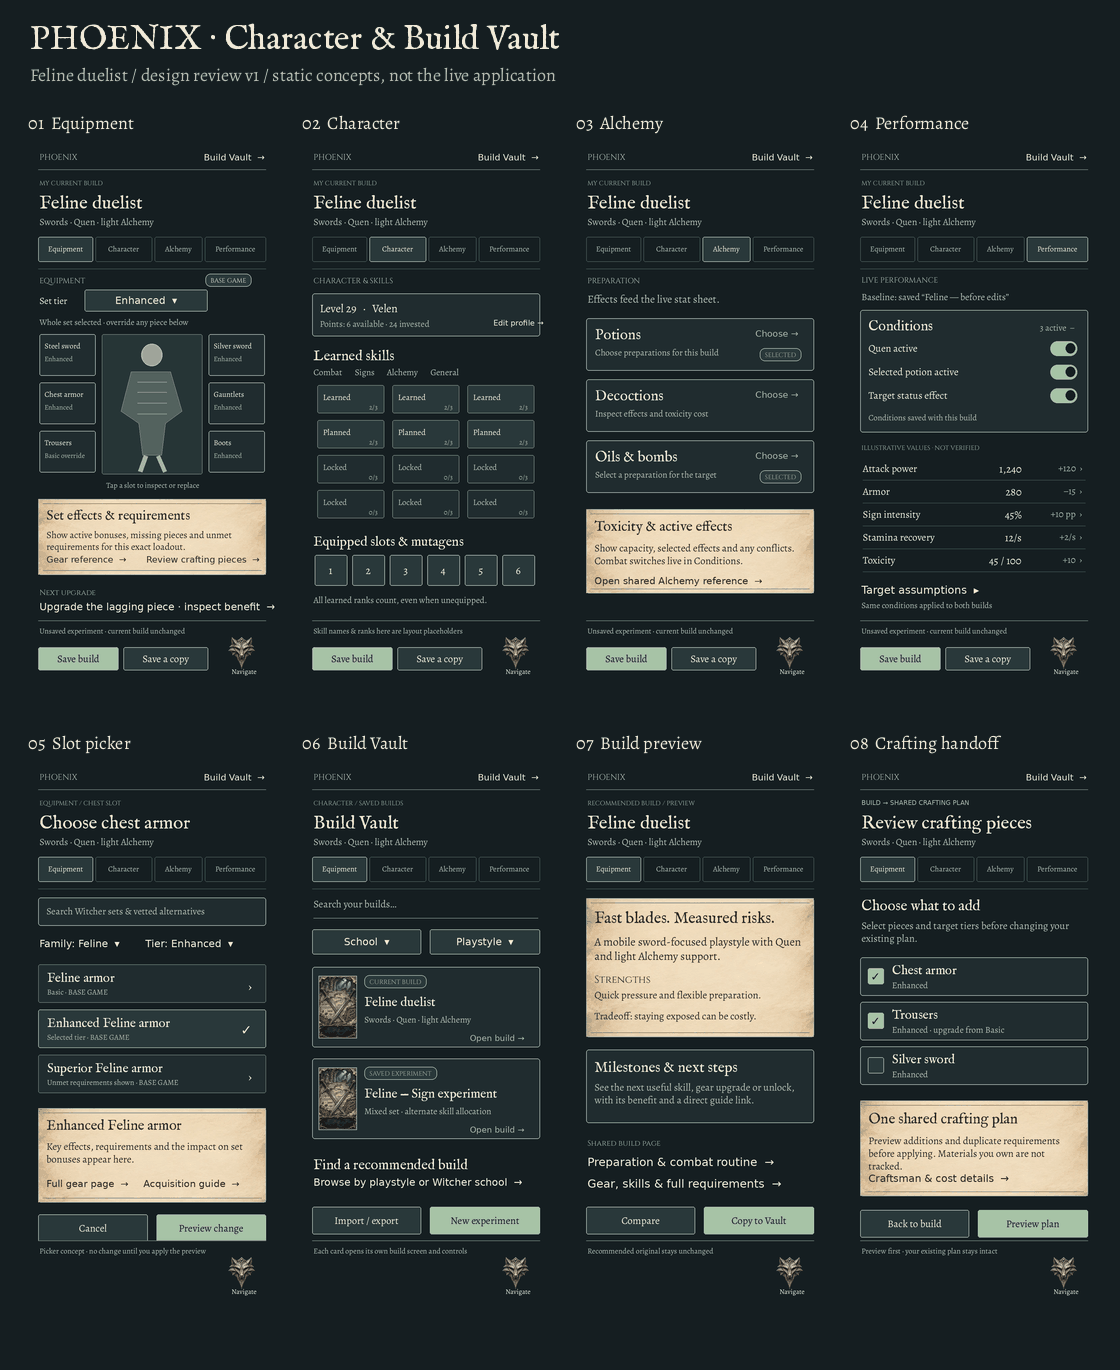
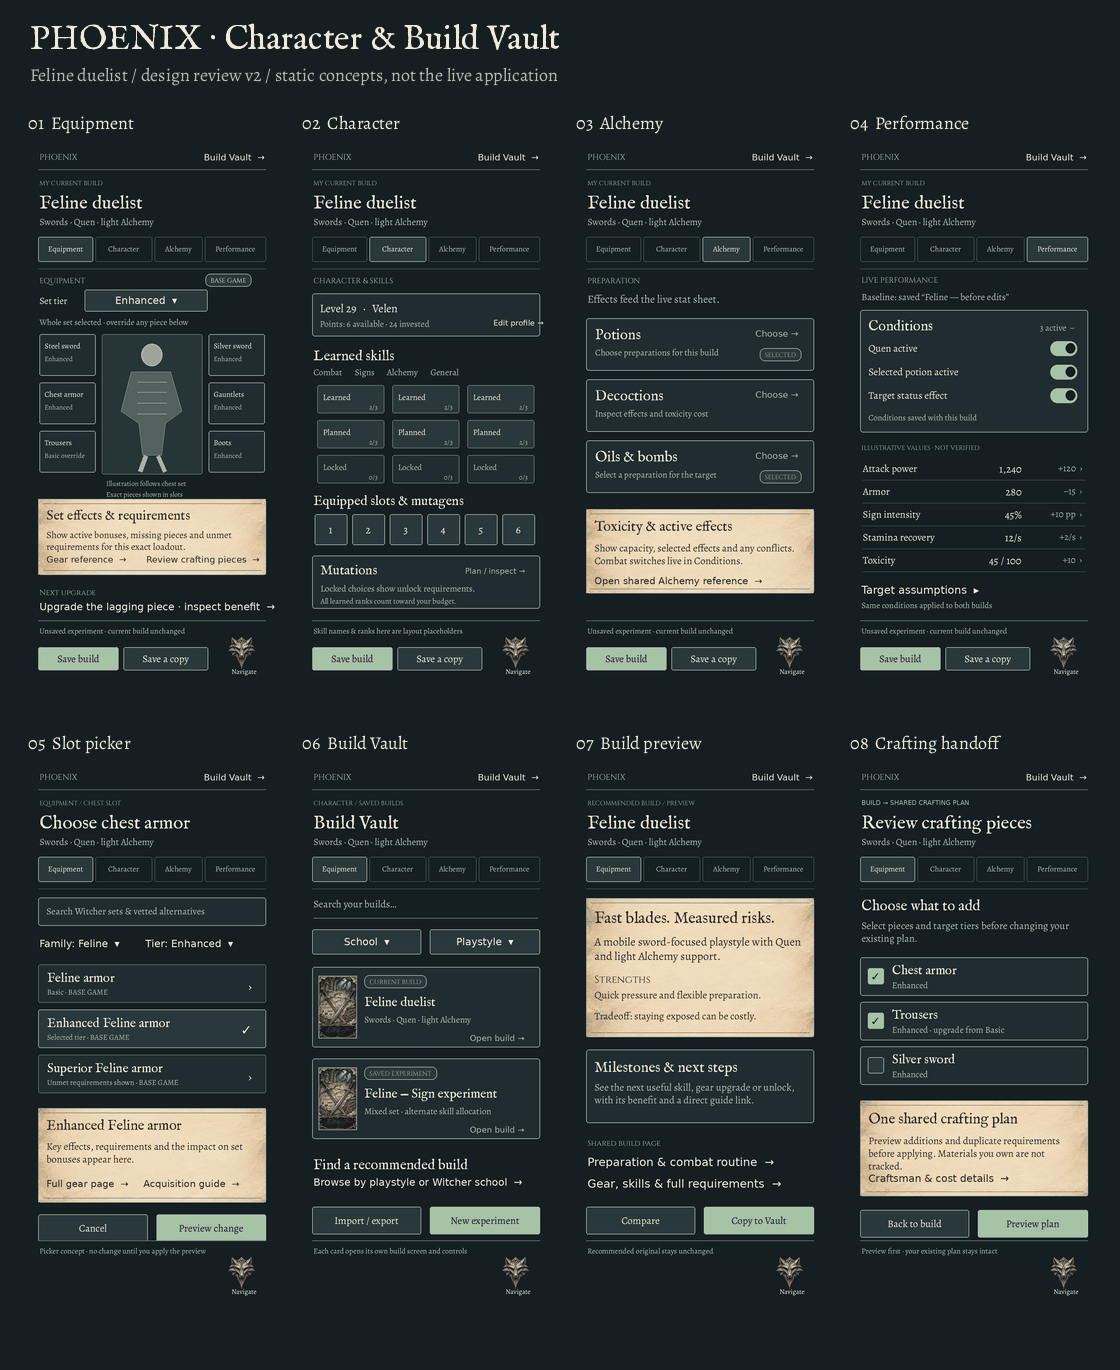
Refine build mockups with mutation planning and upgrade replacement previews
Record six owner decisions. Add locked-mutation planning, in-slot upgrades and affected-stats-first replacement preview. Clarify chest-set illustration behavior and keep all example effects and values illustrative. Static design only.

Changed region(s): [[0.2812, 0.3372, 0.5, 0.4599], [0.25, 0.0307, 0.5, 0.0613], [0.0938, 0.3372, 0.1562, 0.3679]]

diff --git a/design/builds-v1/render_mockups.py b/design/builds-v1/render_mockups.py
@@ -80,7 +80,8 @@ for yy in [377,393,410,427]:line(172,yy,218,yy,'#9caaa1')
 line(185,493,176,518,'#a5b5aa',7);line(204,493,215,518,'#a5b5aa',7)
 for x,y,title,sub in [(18,302,'Steel sword','Enhanced'),(284,302,'Silver sword','Enhanced'),(18,378,'Chest armor','Enhanced'),(284,378,'Gauntlets','Enhanced'),(18,454,'Trousers','Basic override'),(284,454,'Boots','Enhanced')]:
  rect(x,y,88,65,C['panel'],C['silver'],r=3);text(x+8,y+10,title,12);wrap(x+8,y+31,sub,72,11,C['sage'])
-text(123,531,'Tap a slot to inspect or replace',12,C['muted'])
+text(123,529,'Illustration follows chest set',11,C['muted'])
+text(123,546,'Exact pieces shown in slots',11,C['muted'])
 sheet(561,119);text(29,574,'Set effects & requirements',21,C['ink'],'serif')
 wrap(29,607,'Show active bonuses, missing pieces and unmet requirements for this exact loadout.',328,15,C['ink'])
 text(29,648,'Gear reference  →       Review crafting pieces  →',14,C['ink'])
@@ -91,14 +92,14 @@ begin('Feline duelist',tab=1)
 text(18,210,'CHARACTER & SKILLS',12,C['silver'],'caps')
 card(238,67);text(28,249,'Level 29   ·   Velen',18);text(28,276,'Points: 6 available · 24 invested',14,C['sage']);text(301,277,'Edit profile →',12)
 text(18,323,'Learned skills',22,k='serif');text(18,352,'Combat       Signs       Alchemy       General',14,C['muted'])
-for i in range(4):
+for i in range(3):
  for j in range(3):
   x=24+j*118;y=382+i*55;rect(x,y,105,44,C['panel2'] if i<2 else C['panel'],'#74827b',r=3)
   text(x+9,y+10,['Learned','Planned','Locked'][min(i,2)],13,C['white'] if i<2 else C['muted']);text(x+95,y+27,'2/3' if i<2 else '0/3',11,C['sage'],anchor='ra')
-text(18,615,'Equipped slots & mutagens',21,k='serif')
+text(18,551,'Equipped slots & mutagens',21,k='serif')
 for j in range(6):
- x=20+j*59;rect(x,649,51,48,C['panel2'],C['silver'],r=3);text(x+25,673,str(j+1),17,anchor='mm')
-text(18,710,'All learned ranks count, even when unequipped.',14,C['muted'])
+ x=20+j*59;rect(x,585,51,48,C['panel2'],C['silver'],r=3);text(x+25,609,str(j+1),17,anchor='mm')
+card(650,83);text(29,660,'Mutations',21,k='serif');text(351,667,'Plan / inspect →',12,C['sage'],anchor='ra');text(29,692,'Locked choices show unlock requirements.',14,C['muted']);text(29,713,'All learned ranks count toward your budget.',12,C['muted'])
 footer('Skill names & ranks here are layout placeholders');plates.append(('Character',save('02-character.png')))
 # 03 alchemy
 begin('Feline duelist',tab=2)
@@ -182,7 +183,7 @@ save('09-performance-landscape.png')
 # Contact sheet with legible titles; full plates remain available separately.
 board=Image.new('RGB',(1120,1370),C['bg']);bd=ImageDraw.Draw(board)
 boardfont=ImageFont.truetype(str(fonts['serif']),34);smallfont=ImageFont.truetype(str(fonts['body']),18)
-bd.text((30,18),'PHOENIX · Character & Build Vault',font=boardfont,fill=C['white']);bd.text((30,62),'Feline duelist / design review v1 / static concepts, not the live application',font=smallfont,fill=C['muted'])
+bd.text((30,18),'PHOENIX · Character & Build Vault',font=boardfont,fill=C['white']);bd.text((30,62),'Feline duelist / design review v2 / static concepts, not the live application',font=smallfont,fill=C['muted'])
 for i,(label,plate) in enumerate(plates):
  x=28+(i%4)*274;y=110+(i//4)*620;bd.text((x,y),str(i+1).zfill(2)+'  '+label,font=smallfont,fill=C['white']);thumb=plate.resize((248,537),Image.Resampling.LANCZOS);board.paste(thumb,(x,y+32))
 board.quantize(colors=192).save(OUT/'00-overview.png',optimize=True)
@@ -202,4 +203,36 @@ for y,label in [(425,'Target affected by selected status'),(468,'Oil matches the
  wrap(30,y,label,262,16);rect(321,y,34,23,C['panel2'],C['silver'],r=11)
 sheet(550,146);text(29,565,'Advanced assumptions  +',23,C['ink'],'serif');wrap(29,607,'Expand supported armor, resistance and other target inputs. Estimates stay clearly labelled.',329,16,C['ink']);text(29,663,'Shared enemy & mechanics reference  →',14,C['ink'])
 footer('Conditions saved with this build');save('11-target-assumptions.png')
-print('Rendered 12 design plates')
+# Revision 2: the owner confirmed these states after reviewing the first plates.
+revision_plates=[('Character + mutations',plates[1][1])]
+begin('Mutation planning','CHARACTER / MUTATIONS',tab=1)
+text(18,213,'EXPERIMENT · NOT YET UNLOCKED',10,C['sage'],'caps')
+card(248,124);text(30,263,'Selected mutation',26,k='serif');wrap(30,305,'Plan this choice now. Its effects can be explored without claiming it is unlocked in your game.',328,16,C['muted'])
+sheet(397,166);text(29,413,'Requirements not met',24,C['ink'],'serif');wrap(29,454,'Required quest, research and point costs appear here once verified.',328,17,C['ink']);text(29,520,'Open shared mutation unlock guide →',14,C['ink'])
+text(18,590,'Effects in this experiment',21,k='serif');wrap(18,627,'The stat sheet identifies planned effects and keeps your current in-game setup separate.',350,17,C['muted'])
+button(16,699,171,'Back to Character');button(201,699,173,'Use in experiment',True)
+footer('Planning does not mark quests or unlocks complete',False);revision_plates.append(('Mutation planning',save('12-mutation-planning.png')))
+begin('Chest armor upgrades','EQUIPMENT / SELECTED GEAR SLOT',tab=0)
+card(213,89);text(29,228,'Enhanced Feline armor',25,k='serif');text(29,266,'Item details  →       Shared upgrade reference  →',13,C['sage'])
+text(18,323,'Installed upgrades',22,k='serif')
+for y,label,action in [(365,'Occupied slot · Upgrade A','Replace'),(432,'Empty compatible slot','Choose')]:
+ card(y,54);text(29,y+16,label,17);text(352,y+18,action+' →',13,C['sage'],anchor='ra')
+sheet(513,157);text(29,529,'Runes, glyphs & enchantments',21,C['ink'],'serif');wrap(29,570,'Only controls relevant to this item appear. Replacement previews show what comes out and what goes in.',327,16,C['ink']);text(29,639,'Full upgrade mechanics & requirements →',14,C['ink'])
+text(18,698,'Upgrade labels are illustrative placeholders.',14,C['muted'])
+footer();revision_plates.append(('Gear-slot upgrades',save('13-gear-upgrades.png')))
+begin('Preview replacement','EQUIPMENT / CHANGE PREVIEW',tab=0)
+text(18,211,'REVIEW BEFORE APPLYING',11,C['sage'],'caps')
+card(245,109);text(29,259,'Outgoing: Upgrade A',20,k='serif');text(29,296,'Incoming: Upgrade B',20,C['sage'],k='serif');text(29,329,'Illustrative upgrade names and values',12,C['muted'])
+text(18,376,'Affected stats',22,k='serif')
+for y,label,before,after in [(419,'Attack power','1,240','1,300'),(464,'Sign intensity','45%','40%')]:
+ text(22,y,label,18);text(362,y,before+' → '+after,15,C['silver'],anchor='ra');line(22,y+33,368,y+33,'#50665b')
+sheet(519,117);text(29,534,'Requirements & set effects',22,C['ink'],'serif');wrap(29,575,'List changed requirements, active or lost bonuses, and any replacement restrictions here.',328,15,C['ink'])
+text(18,659,'Complete stat sheet  +',18)
+button(16,706,171,'Cancel');button(201,706,173,'Apply to draft',True)
+footer('Applying changes the draft; Save remains separate',False);revision_plates.append(('Replacement preview',save('14-replacement-preview.png')))
+board=Image.new('RGB',(1120,760),C['bg']);bd=ImageDraw.Draw(board)
+bd.text((28,16),'PHOENIX · Build refinements / v2',font=boardfont,fill=C['white']);bd.text((28,59),'Confirmed planning, gear-slot controls and affected-stats-first replacement preview',font=smallfont,fill=C['muted'])
+for i,(label,plate) in enumerate(revision_plates):
+ x=28+i*274;y=105;bd.text((x,y),label,font=smallfont,fill=C['white']);board.paste(plate.resize((248,537),Image.Resampling.LANCZOS),(x,y+32))
+board.quantize(colors=192).save(OUT/'00-revision-overview.png',optimize=True)
+print('Rendered 16 design plates')

diff --git a/design/builds-v1/DECISIONS.md b/design/builds-v1/DECISIONS.md
@@ -56,3 +56,18 @@ introduced by the Vault design.
 
 Earlier questions that returned empty answers were not approvals. Later choices
 resolve the full-screen picker; no silent default is inferred for an unanswered item.
+
+## Confirmed v2 refinements
+
+| Area | Owner decision |
+|---|---|
+| Character artwork | Match the main set, determined by equipped chest armor; label it Illustration and show exact items in slots |
+| Upgrade editing | Runes, glyphs and enchantments live inside the selected gear slot, with shared-reference links |
+| Replacement preview | Show outgoing and incoming upgrades, resulting stats, requirements and set bonuses before Apply / Cancel |
+| Mutations | Panel inside Character alongside learned tree and equipped slots |
+| Locked mutation | Allow planning with a clear unmet-requirements flag and shared unlock-guide link |
+| Preview ordering | Affected stats, requirements and bonuses first; full sheet expandable |
+
+The earlier empty question responses were followed by explicit answers. The owner
+selected the recommended replacement flow, then explicitly answered the final two
+questions. No silence was interpreted as approval.

diff --git a/docs/PROJECT-STATUS.md b/docs/PROJECT-STATUS.md
@@ -2,7 +2,7 @@
 
 ## Character build design mockups — 2026-11-17
 
-`design/character-builds-v1` adds static Feline-duelist mockups and the owner decision
+`design/character-builds-v1` adds static Feline-duelist mockups (v2, 16 plates) and the owner decision
 record under `design/builds-v1/`. See its README for the image gallery. This is design
 review only: all stat examples are illustrative and no production code, storage, CI
 or rollback file changes. QA6 remains live. Shared-walkthrough engineering continues
